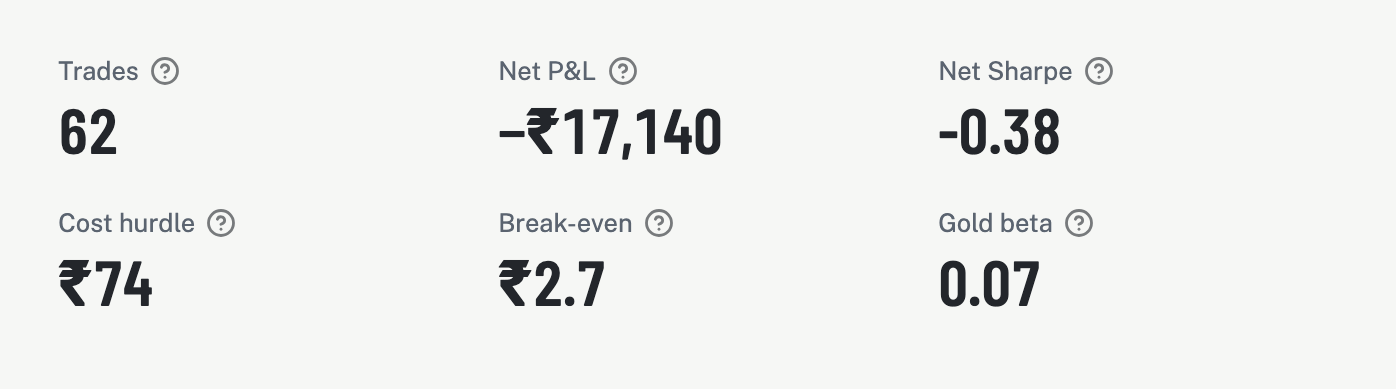
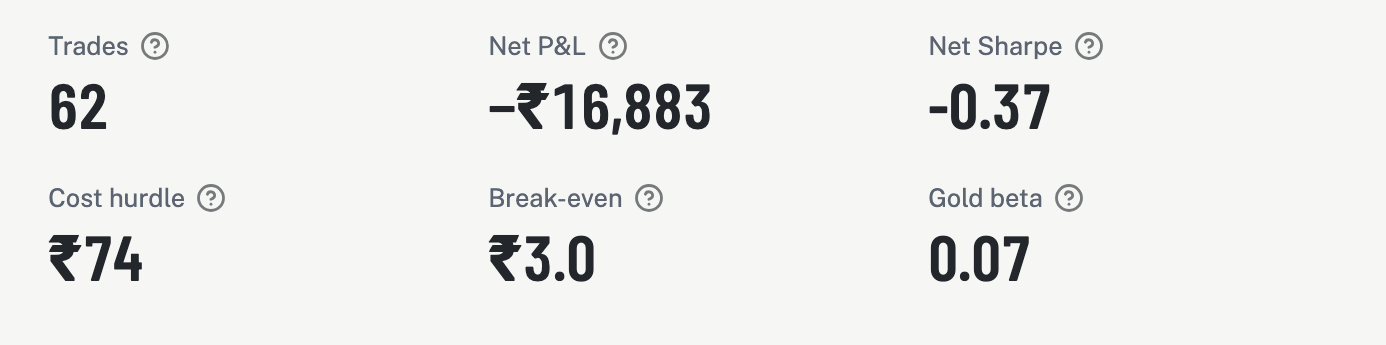
feat: check-a-gap box; fix days_left for contracts still live at the data end
check_gap() converts two quoted prices to ₹/10 g at 999, subtracts the rules' expected
spread and compares the rest with the cost + slippage hurdle (tested).

days_left counted only rows present in the data, so every live contract looked like it was
at expiry on the last data day: quiet alerts could never fire and the backtest forced exits
in the final data days. It now adds the remaining MCX trading days. Verdicts unchanged;
control pair net −₹16,883 (was −₹17,140), break-even ₹3.0 (was ₹2.7); SILVER vs SILVERM
net −₹3,41,647 (was −₹3,55,897). README, QA, demo script and video screens updated.

diff --git a/video/compositions/metrics.html b/video/compositions/metrics.html
@@ -29,9 +29,9 @@
   <div id="root" data-composition-id="metrics" data-width="1920" data-height="1080">
 
     <div id="metrics-cam" class="cam">
-      <div id="metrics-p1" class="plate" style="left:180px; top:150px; width:1560px; height:435px;"><img src="assets/screens/metrics_control.png" alt=""></div>
-      <div id="metrics-m2" class="mark" style="left:203px; top:164px; width:1014px; height:177px;"></div>
-      <div id="metrics-m3" class="mark" style="left:702px; top:338px; width:453px; height:203px;"></div>
+      <div id="metrics-p1" class="plate" style="left:180px; top:150px; width:1560px; height:388px;"><img src="assets/screens/metrics_control.png" alt=""></div>
+      <div id="metrics-m2" class="mark" style="left:203px; top:161px; width:1014px; height:160px;"></div>
+      <div id="metrics-m3" class="mark" style="left:702px; top:317px; width:453px; height:183px;"></div>
       <div id="metrics-tk0" class="tk" style="left:359px;"></div><div id="metrics-tl0" class="tkl" style="left:360px;">₹0</div>
       <div id="metrics-tk1" class="tk" style="left:759px;"></div><div id="metrics-tl1" class="tkl" style="left:760px;">₹1.25</div>
       <div id="metrics-tk2" class="tk" style="left:1159px;"></div><div id="metrics-tl2" class="tkl" style="left:1160px;">₹2.5</div>
@@ -40,7 +40,7 @@
       <div id="metrics-pin" class="pin" style="left:360px;"></div>
       <div id="metrics-cap2" class="cap2">GOLDGUINEA moves in ticks of ₹1 per 8 g = ₹1.25 per 10 g</div>
     </div>
-      <div id="metrics-l4" class="lbl" style="left:1184px; top:560px; font-size:54px;">Break-even <b>₹2.7</b></div>
+      <div id="metrics-l4" class="lbl" style="left:1280px; top:560px; font-size:54px;">Break-even <b>₹3.0</b></div>
   </div>
   <script>
 
@@ -65,7 +65,7 @@
     tl.fromTo("#metrics-m3", { opacity: 0, scale: 1.08 }, { opacity: 1, scale: 1, duration: 0.27, ease: "power3.out" }, 4.173);
     tl.fromTo("#metrics-rul", { scaleX: 0, transformOrigin: "0% 50%" }, { scaleX: 1, duration: 0.5, ease: "power3.out" }, 3.973);
     tl.fromTo([".tk", ".tkl", "#metrics-cap2"], { opacity: 0 }, { opacity: 1, duration: 0.2, stagger: 0.05 }, 4.173);
-    tl.fromTo("#metrics-pin", { opacity: 0, x: 0 }, { opacity: 1, x: 864, duration: 0.9, ease: "power3.out" }, 4.473);
+    tl.fromTo("#metrics-pin", { opacity: 0, x: 0 }, { opacity: 1, x: 960, duration: 0.9, ease: "power3.out" }, 4.473);
     tl.fromTo("#metrics-l4", { clipPath: "inset(0 100% 0 0)" }, { clipPath: "inset(0 0% 0 0)", duration: 0.4, ease: "expo.out" }, 5.173);
     tl.fromTo("#metrics-fill", { scaleX: 0, transformOrigin: "0% 50%" }, { scaleX: 1, duration: 0.5, ease: "power2.out" }, 7.073);
     tl.to("#metrics-cam", { opacity: 0, filter: "blur(8px)", duration: 0.18, ease: "power2.in" }, 8.244);

diff --git a/video/compositions/alerts.html b/video/compositions/alerts.html
@@ -24,8 +24,8 @@
   <div id="root" data-composition-id="alerts" data-width="1920" data-height="1080">
 
     <div id="alerts-cam" class="cam">
-      <div id="alerts-p1" class="plate" style="left:80px; top:150px; width:1760px; height:431px;"><img src="assets/screens/alerts_control.png" alt=""></div>
-      <div id="alerts-m2" class="mark" style="left:81px; top:215px; width:1750px; height:124px;"></div>
+      <div id="alerts-p1" class="plate" style="left:260px; top:130px; width:1400px; height:479px;"><img src="assets/screens/alerts_control.png" alt=""></div>
+      <div id="alerts-m2" class="mark" style="left:259px; top:179px; width:1395px; height:102px;"></div>
       <div id="alerts-zero" class="zero"><span class="n">0</span><span class="t">alerts today. Silence is the normal state.</span></div>
     </div>
 

diff --git a/video/compositions/regimes.html b/video/compositions/regimes.html
@@ -22,8 +22,8 @@
   <div id="root" data-composition-id="regimes" data-width="1920" data-height="1080">
 
     <div id="regimes-cam" class="cam">
-      <div id="regimes-p1" class="plate" style="left:360px; top:110px; width:1200px; height:527px;"><img src="assets/screens/regime_control.png" alt=""></div>
-      <div id="regimes-m2" class="mark" style="left:376px; top:500px; width:1168px; height:142px;"></div>
+      <div id="regimes-p1" class="plate" style="left:360px; top:110px; width:1200px; height:549px;"><img src="assets/screens/regime_control.png" alt=""></div>
+      <div id="regimes-m2" class="mark" style="left:376px; top:497px; width:1168px; height:148px;"></div>
     </div>
 
   </div>

diff --git a/app/streamlit_app.py b/app/streamlit_app.py
@@ -14,14 +14,14 @@ sys.path.insert(0, str(Path(__file__).resolve().parent))
 # (seen as an ImportError on a newly added function). Drop it so every run imports the current code.
 for _m in [m for m in sys.modules if m == "aulens" or m.startswith("aulens.") or m == "theme"]:
     del sys.modules[_m]
-from aulens.backtest import Params, latest_signals, walk_forward  # noqa: E402
+from aulens.backtest import Params, check_gap, latest_signals, walk_forward  # noqa: E402
 from aulens.costs import CostModel  # noqa: E402
 from aulens.data.loader import PROCESSED, load_processed  # noqa: E402
 from aulens.normalize import curve_carry  # noqa: E402
 from aulens.specs import (DEFAULT_SLIPPAGE, MCX_FULL_HOLIDAYS, PAIRS, RBI_REPO_RATE, RBI_REPO_SINCE,  # noqa: E402
                           REGIME_BREAKS, SPECS, UNITS, metal)
 from aulens.verdict import verdict  # noqa: E402
-from theme import (CSS, FAULT, GOLD, INK, PLOTLY_CONFIG, STEEL, VERDICT_COLOUR, VERDIGRIS,  # noqa: E402
+from theme import (CSS, FAULT, GOLD, GOLD_TEXT, INK, PLOTLY_CONFIG, STEEL, VERDICT_COLOUR, VERDIGRIS,  # noqa: E402
                    hallmark, rupees)
 
 st.set_page_config(page_title="AuLens", page_icon="🔎", layout="wide")
@@ -242,6 +242,58 @@ fig.update_layout(height=420, yaxis_title=f"₹ per {UNAME} at 999")
 st.plotly_chart(fig, width="stretch", config=PLOTLY_CONFIG)
 st.caption("The dark line is the price gap between the two contracts. The dashed line is where the exchange "
            "rules say it must end up; a trade is only worth taking once the gap leaves the shaded cost band.")
+
+# ---- Check a gap you see
+st.subheader("Check a gap you see")
+last_day = panel["date"].max()
+live = panel[panel["date"] == last_day].sort_values("expiry")
+qa, qb = grams(SPECS[a].quote_grams), grams(SPECS[b].quote_grams)
+st.caption(f"Type the two prices from your trading screen exactly as quoted: {a} per {qa}, {b} per {qb}. "
+           f"They start at the {last_day:%-d %b %Y} settlement prices.")
+
+
+def contract_label(x):
+    rw = live[live["expiry"] == x].iloc[0]
+    if "expiry_a" in rw:   # carry pair: a's month M+1 against b's month M
+        return f"{a} {rw['expiry_a']:%b %Y} / {b} {x:%b %Y}"
+    return f"{x:%b %Y}"
+
+
+g1, g2, g3 = st.columns([1.2, 1, 1])
+holdable = live["can_hold"].tolist()
+exp_g = g1.selectbox("Contract", live["expiry"].tolist(), format_func=contract_label, key=f"gap_exp_{a}_{b}",
+                     index=holdable.index(True) if True in holdable else 0)   # nearest contract still outside the exit window
+row = live[live["expiry"] == exp_g].iloc[0]
+tag = f"{a}_{b}_{pd.Timestamp(exp_g):%Y%m%d}"
+price_a = g2.number_input(f"{a}, ₹ per {qa}", min_value=1.0, value=float(row["close_a"]), step=1.0, format="%.0f", key=f"gap_a_{tag}")
+price_b = g3.number_input(f"{b}, ₹ per {qb}", min_value=1.0, value=float(row["close_b"]), step=1.0, format="%.0f", key=f"gap_b_{tag}")
+g = check_gap(res, exp_g, price_a, price_b)
+
+edge = v["verdict"] == "EDGE"
+OUTCOME = {
+    "implausible": (FAULT, "These prices are more than 5% apart once converted to the same unit. "
+                           "Check the prices and the contract month."),
+    "no_estimate": (GOLD_TEXT, "AuLens has no expected spread for this contract yet: it needs about 20 days of its own history."),
+    "late": (STEEL, "Too close to delivery. Under AuLens' exit rule a position in this contract must already be closed."),
+    "inside": (STEEL, "Inside the cost band. The rulebook and trading costs explain this gap, so there is nothing to trade."),
+    "clears": (VERDIGRIS, "Clears the rulebook and costs, on a pair with a tested edge. Check volume and the z-score before acting.")
+              if edge else
+              (GOLD_TEXT, f"Clears the rulebook and costs today, but this pair's verdict is {v['verdict']}: "
+                          "in the backtest, gaps like this did not pay after costs."),
+}
+colour, message = OUTCOME[g["status"]]
+fmt = lambda x: "–" if pd.isna(x) else rupees(x * U)   # noqa: E731
+lines = [("Raw difference of the two quotes", rupees(g["quoted_gap"]), "different units, so not comparable"),
+         (f"Same gap in ₹ per {UNAME} at 999", fmt(g["spread"]), "after purity and quote-unit conversion"),
+         ("Where the rules say it should be", fmt(g["expected"]), "same city and expiry: ₹0; otherwise basis or carry"),
+         ("Left over", fmt(g["residual"]), "what could be mispricing"),
+         ("Cost and slippage hurdle", f"± {fmt(g['hurdle'])}", f"round-trip costs plus ₹{slip} slippage per leg")]
+st.markdown("<div class='gap'><dl class='gap-ledger'>" + "".join(
+    f"<div{' class=\'key\'' if k == 3 else ''}><dt>{escape(t)}<span>{escape(why)}</span></dt><dd>{val}</dd></div>"
+    for k, (t, val, why) in enumerate(lines)) + "</dl>"
+    f"<p class='gap-out' role='status' style='--mark:{colour}'>{escape(message)}</p></div>", unsafe_allow_html=True)
+st.caption(f"Expected spread and the delivery-window check use data to {last_day:%-d %b %Y}. "
+           "A single quote has no z-score or volume, so those entry rules are not checked here.")
 
 # ---- Sensitivity + regimes
 l, r = st.columns(2, gap="large")

diff --git a/aulens/backtest.py b/aulens/backtest.py
@@ -17,7 +17,8 @@ import numpy as np
 import pandas as pd
 
 from aulens.costs import CostModel
-from aulens.normalize import gram_matched_lots, pair_panel
+from aulens.specs import MCX_FULL_HOLIDAYS
+from aulens.normalize import gram_matched_lots, pair_panel, to_rs_per_10g_999
 from aulens.specs import REGIME_BREAKS, SPECS
 
 
@@ -57,7 +58,13 @@ def add_signals(p: pd.DataFrame, a: str, b: str, prm: Params) -> pd.DataFrame:
     sd = g.transform(lambda s: s.shift(1).rolling(prm.lookback, min_periods=prm.lookback // 2).std())
     p["z"] = (p["residual"] - mu) / sd
     tender = max(SPECS[a].tender_days, SPECS[b].tender_days) + prm.exit_buffer_days
-    p["days_left"] = p.groupby("expiry")["date"].transform(lambda d: len(d) - 1 - np.arange(len(d)))
+    # trading days still to come before expiry: rows left in the data, plus (for contracts still live
+    # on the last data day) the weekdays after it that are not MCX full-day holidays
+    last = p["date"].max()
+    future = {e: len(pd.bdate_range(last + pd.Timedelta(days=1), e, freq="C", holidays=MCX_FULL_HOLIDAYS)) if e > last else 0
+              for e in p["expiry"].unique()}
+    p["days_left"] = (p.groupby("expiry")["date"].transform(lambda d: len(d) - 1 - np.arange(len(d)))
+                      + p["expiry"].map(future))
     p["can_hold"] = p["days_left"] > tender
     lots_a, lots_b, _ = gram_matched_lots(a, b, prm.lot_scale)
     p["liquid"] = ((p["volume_a"] >= prm.min_volume) & (p["volume_b"] >= prm.min_volume)
@@ -147,3 +154,32 @@ def latest_signals(res: dict) -> pd.DataFrame:
     last["clears"] = (last["can_hold"] & last["liquid"] & (last["z"].abs() > z_entry)
                       & (last["residual"].abs() > last["hurdle"]))
     return last[["date", "expiry", "residual", "hurdle", "z", "clears"]].reset_index(drop=True)
+
+
+PLAUSIBLE_GAP = 0.05   # normalized prices further apart than this are almost surely a typo or the wrong contract
+
+
+def check_gap(res: dict, expiry: pd.Timestamp, price_a: float, price_b: float) -> dict:
+    """Judge two prices a trader sees for one contract of the pair with the backtest's own rules:
+    convert both to ₹ per 10 g at 999, subtract the rules' expected spread (as of the last data day)
+    and compare what is left with the cost + slippage hurdle. z-score and volume need history, so
+    they are not part of a single-quote check."""
+    a, b = res["pair"]
+    prm = res["params"]
+    row = res["panel"][res["panel"]["expiry"] == expiry].iloc[-1]
+    px_a, px_b = to_rs_per_10g_999(price_a, a), to_rs_per_10g_999(price_b, b)
+    spread = px_a - px_b
+    residual = spread - row["expected"]
+    hurdle = prm.costs.breakeven_per_10g(px_a, res["grams"]) + 4 * prm.slippage_per_leg
+    if abs(spread) > PLAUSIBLE_GAP * px_a:
+        status = "implausible"
+    elif pd.isna(row["expected"]):
+        status = "no_estimate"
+    elif not row["can_hold"]:
+        status = "late"
+    elif abs(residual) <= hurdle:
+        status = "inside"
+    else:
+        status = "clears"
+    return {"as_of": row["date"], "quoted_gap": price_a - price_b, "spread": spread, "expected": row["expected"],
+            "residual": residual, "hurdle": hurdle, "status": status}

diff --git a/video/scripts/build_film.py b/video/scripts/build_film.py
@@ -367,8 +367,8 @@ s.add(f'<div id="metrics-pin" class="pin" style="left:{X0}px;"></div>')
 s.add('<div id="metrics-cap2" class="cap2">GOLDGUINEA moves in ticks of ₹1 per 8 g = ₹1.25 per 10 g</div>')
 s.tw(f'tl.fromTo("#metrics-rul", {{ scaleX: 0, transformOrigin: "0% 50%" }}, {{ scaleX: 1, duration: 0.5, ease: "power3.out" }}, {round(t_breaks - 0.2, 3)});')
 s.tw(f'tl.fromTo([".tk", ".tkl", "#metrics-cap2"], {{ opacity: 0 }}, {{ opacity: 1, duration: 0.2, stagger: 0.05 }}, {round(t_breaks, 3)});')
-s.tw(f'tl.fromTo("#metrics-pin", {{ opacity: 0, x: 0 }}, {{ opacity: 1, x: {px(2.7) - X0}, duration: 0.9, ease: "power3.out" }}, {round(t_breaks + 0.3, 3)});')
-s.label('Break-even <b>₹2.7</b>', px(2.7) - 40, RY - 140, 54, round(t_breaks + 1.0, 3))
+s.tw(f'tl.fromTo("#metrics-pin", {{ opacity: 0, x: 0 }}, {{ opacity: 1, x: {px(3.0) - X0}, duration: 0.9, ease: "power3.out" }}, {round(t_breaks + 0.3, 3)});')
+s.label('Break-even <b>₹3.0</b>', px(3.0) - 40, RY - 140, 54, round(t_breaks + 1.0, 3))
 s.tw(f'tl.fromTo("#metrics-fill", {{ scaleX: 0, transformOrigin: "0% 50%" }}, {{ scaleX: 1, duration: 0.5, ease: "power2.out" }}, {round(t_ticks - 0.3, 3)});')
 s.sfx(t_breaks + 0.3, "key-press", 0.3)
 s.exit("blur")
@@ -378,7 +378,7 @@ s.write()
 s = Scene("regimes")
 s.enter("blur")
 rg = s.plate("assets/screens/regime_control.png", 360, 110, 1200, reveal="down", dur=0.8)
-s.mark(rg, (0.02, 0.755, 0.98, 0.995), s.L(cue("s07", "April")))
+s.mark(rg, (0.02, 0.72, 0.98, 0.96), s.L(cue("s07", "April")))
 s.exit("whip-up")
 s.write()
 
@@ -409,9 +409,9 @@ s.write()
 # ================= alerts: the quiet state =================
 s = Scene("alerts")
 s.enter("blur")
-a = s.plate("assets/screens/alerts_control.png", 80, 150, 1760)
+a = s.plate("assets/screens/alerts_control.png", 260, 130, 1400)   # six pairs since the silver update
 t_q = s.L(cue("s10", "quiet"))
-s.mark(a, (0.005, 0.17, 0.99, 0.42), t_q)
+s.mark(a, (0.005, 0.12, 0.99, 0.30), t_q)
 s.css = f".zero {{ position: absolute; left: 80px; top: 640px; display: flex; align-items: baseline; gap: 26px; opacity: 0; }}\n.zero .n {{ font-family: 'Barlow Condensed'; font-weight: 700; font-size: 170px; line-height: 1; }}\n.zero .t {{ font-family: 'Barlow Condensed'; font-weight: 600; font-size: 60px; color: {STEEL}; }}"
 s.add('<div id="alerts-zero" class="zero"><span class="n">0</span><span class="t">alerts today. Silence is the normal state.</span></div>')
 s.tw(f'tl.fromTo("#alerts-zero", {{ opacity: 0, filter: "blur(8px)" }}, {{ opacity: 1, filter: "blur(0px)", duration: 0.2 }}, {round(t_q + 0.35, 3)});')

diff --git a/app/theme.py b/app/theme.py
@@ -74,6 +74,18 @@ CSS = f"""
   .pill {{ display: inline-block; padding: .05rem .5rem; border: 1.5px solid var(--mark); border-radius: 4px; color: var(--mark);
     font-family: "Barlow Condensed", sans-serif; font-weight: 700; font-size: 1rem; letter-spacing: .04em; }}
 
+  /* check a gap: a short ledger, then the answer */
+  .gap {{ max-width: 46rem; margin: .5rem 0 .25rem; }}
+  .gap-ledger {{ margin: 0; font-variant-numeric: tabular-nums; }}
+  .gap-ledger > div {{ display: flex; justify-content: space-between; align-items: baseline; gap: 1rem;
+    padding: .5rem 0; border-bottom: 1px solid {RULE}; }}
+  .gap-ledger dt {{ font-weight: 500; }}
+  .gap-ledger dt span {{ display: block; font-weight: 400; font-size: .78rem; color: {STEEL}; }}
+  .gap-ledger dd {{ margin: 0; white-space: nowrap; font-family: "Barlow Condensed", sans-serif; font-weight: 600; font-size: 1.35rem; }}
+  .gap-ledger .key dt, .gap-ledger .key dd {{ color: {INK}; font-weight: 700; }}
+  .gap-out {{ margin: 1rem 0 0; padding: .7rem 1rem; border-left: 4px solid var(--mark);
+    background: color-mix(in srgb, var(--mark) 6%, white); color: {INK}; }}
+
   /* pair picker: 44 px tap targets */
   .st-key-pair button {{ min-height: 44px; padding-left: .9rem; padding-right: .9rem; }}
 

diff --git a/tests/test_backtest.py b/tests/test_backtest.py
@@ -52,3 +52,15 @@ def test_net_sharpe_and_latest_signals():
     res = walk_forward(_df(), "GOLDTEN", "GOLDGUINEA", Params(min_train_months=2))
     sig = latest_signals(res)
     assert (sig["date"] == res["panel"]["date"].max()).all() and sig["clears"].dtype == bool
+
+
+def test_check_gap_normalizes_then_compares_to_the_hurdle():
+    from aulens.backtest import check_gap
+    res = walk_forward(_df(), "GOLDTEN", "GOLDGUINEA", Params(min_train_months=2))
+    p = res["panel"]
+    exp = p[(p["date"] == p["date"].max()) & p["can_hold"]]["expiry"].max()
+    same = check_gap(res, exp, 140000.0, 112000.0)      # GOLDGUINEA quotes per 8 g: same gold, ₹0 spread
+    assert same["quoted_gap"] == 28000 and same["spread"] == pytest.approx(0) and same["status"] == "inside"
+    wide = check_gap(res, exp, 140000.0, 111700.0)      # 111700 per 8 g = 139625 per 10 g: ₹375 apart
+    assert wide["spread"] == pytest.approx(375) and wide["status"] == "clears" and wide["residual"] > wide["hurdle"]
+    assert check_gap(res, exp, 140000.0, 100000.0)["status"] == "implausible"   # 125000 per 10 g: a typo

diff --git a/README.md b/README.md
@@ -74,12 +74,12 @@ volume, walk-forward `z_entry`.
 
 | Pair | Verdict | Trades | Net P&L | Net Sharpe | 90% CI, mean trade | Break-even slippage per leg | Metal beta |
 |---|---|---|---|---|---|---|---|
-| GOLDTEN vs GOLDGUINEA (control) | **NO EDGE** | 62 | −₹17,140 | −0.38 | −₹1,309 to ₹838 | ₹2.7 /10 g | 0.07 |
+| GOLDTEN vs GOLDGUINEA (control) | **NO EDGE** | 62 | −₹16,883 | −0.37 | −₹1,305 to ₹845 | ₹3.0 /10 g | 0.07 |
 | GOLD vs GOLDM (control) | **NO EDGE** | 12 | −₹5,93,492 | −1.28 | −₹1,14,656 to −₹1,412 | −₹103.6 /10 g | 0.03 |
 | GOLDTEN vs GOLDPETAL | **NO EDGE** | 49 | ₹35,653 | 0.83 | −₹527 to ₹2,044 | ₹65.5 /10 g | 0.14 |
 | GOLDM vs GOLDTEN (stretch) | **NO EDGE** | 32 | −₹1,69,597 | −1.24 | −₹12,236 to ₹404 | −₹112.5 /10 g | 0.25 |
 | SILVERM vs SILVERMIC (silver control) | **NO EDGE** | 15 | −₹2,783 | −0.20 | −₹1,492 to ₹1,489 | ₹10.7 /kg | −0.01 |
-| SILVER vs SILVERM (silver carry) | **NO EDGE** | 20 | −₹3,55,897 | −1.85 | −₹33,657 to −₹6,579 | −₹128.3 /kg | 0.06 |
+| SILVER vs SILVERM (silver carry) | **NO EDGE** | 20 | −₹3,41,647 | −1.75 | −₹33,491 to −₹5,818 | −₹122.4 /kg | 0.04 |
 
 - **Control pairs:** both gold controls settle on the same price at expiry (GOLDTEN/GUINEA within
   ±₹1 on all 18 expiries, GOLD/GOLDM exactly ₹0 on 9), and SILVERM/SILVERMIC settles at exactly
@@ -90,7 +90,7 @@ volume, walk-forward `z_entry`.
   2026, so it fails the every-regime test.
 - **GOLDM vs GOLDTEN and SILVER vs SILVERM:** the carry pairs take their worst losses on
   30 Jan 2026, when the near and far expiries moved by very different amounts. Three GOLDM vs
-  GOLDTEN trades closed that day for 74% of that pair's loss, and one SILVER vs SILVERM trade for 47% of its loss. See [docs/LIMITATIONS.md](docs/LIMITATIONS.md).
+  GOLDTEN trades closed that day for 74% of that pair's loss, and one SILVER vs SILVERM trade for 49% of its loss. See [docs/LIMITATIONS.md](docs/LIMITATIONS.md).
 
 Exact output of `python scripts/run_backtest.py`:
 
@@ -99,15 +99,15 @@ Data source: MCX
 
 == GOLDTEN vs GOLDGUINEA  [NO EDGE]  4 x GOLDTEN  vs  5 x GOLDGUINEA  (40 g)
    Does not survive costs, slippage and regime splits with confidence.
-   trades 62  gross ₹20,618  costs ₹17,918  slippage ₹19,840  net ₹-17,140  hit 42%
-   break-even slippage ₹2.7/10 g/leg   gold beta 0.070
-   net Sharpe -0.38   90% CI of mean trade ₹-1,309 to ₹838
+   trades 62  gross ₹20,875  costs ₹17,918  slippage ₹19,840  net ₹-16,883  hit 42%
+   break-even slippage ₹3.0/10 g/leg   gold beta 0.067
+   net Sharpe -0.37   90% CI of mean trade ₹-1,305 to ₹845
                   count           sum
 regime                               
 From 01 Apr 2025      4   -343.373494
 From 22 Sep 2025     30 -10825.918032
 From 01 Apr 2026      2  -1932.232955
-From 13 May 2026     26  -4038.245302 
+From 13 May 2026     26  -3781.245302 
 
 == GOLD vs GOLDM  [NO EDGE]  1 x GOLD  vs  10 x GOLDM  (1 kg)
    Does not survive costs, slippage and regime splits with confidence.
@@ -158,15 +158,15 @@ From 13 May 2026      3  -894.206732
 
 == SILVER vs SILVERM  [NO EDGE]  1 x SILVER  vs  6 x SILVERM  (30 kg)
    Does not survive costs, slippage and regime splits with confidence.
-   trades 20  gross ₹-266,520  costs ₹41,377  slippage ₹48,000  net ₹-355,897  hit 20%
-   break-even slippage ₹-128.3/kg/leg   silver beta 0.056
-   net Sharpe -1.85   90% CI of mean trade ₹-33,657 to ₹-6,579
+   trades 20  gross ₹-252,270  costs ₹41,377  slippage ₹48,000  net ₹-341,647  hit 25%
+   break-even slippage ₹-122.4/kg/leg   silver beta 0.042
+   net Sharpe -1.75   90% CI of mean trade ₹-33,491 to ₹-5,818
                   count            sum
 regime                                
 From 01 Apr 2025      4   -2186.217673
 From 22 Sep 2025     10 -277826.172908
 From 01 Apr 2026      1  -22121.304229
-From 13 May 2026      5  -53763.314862
+From 13 May 2026      5  -39513.314862
 ```
 
 ## Status
@@ -186,6 +186,8 @@ From 13 May 2026      5  -53763.314862
 - [x] Contract specs verified against the current MCX PDFs (GOLD/GOLDM tender window corrected to 3 days)
 - [x] GOLD vs GOLDM second control, robustness grid, downloadable report
 - [x] Silver family: SILVERM vs SILVERMIC control, SILVER vs SILVERM carry pair (₹/kg display)
+- [x] Six-pair scoreboard on the first screen; phone-friendly pair picker and assumptions panel
+- [x] Check a gap: type two quoted prices, see the rulebook-adjusted gap against the cost hurdle
 - [ ] GOLDM 3-day-average DDR modelled in the GOLDM vs GOLDTEN expected spread
 - [ ] COMEX carry comparison, measured slippage from live bid/ask
 

diff --git a/docs/QA.md b/docs/QA.md
@@ -14,8 +14,8 @@ There isn't one after costs, and AuLens can show exactly why.
   ₹1 at the DDR, but in six of them the gap over the last five trading days was *wider* than in
   the first half of the contract's life. A trader has to be out before the delivery window, so
   the snap-back can't be collected.
-- **Costs eat what's left.** Control pair: average gross ₹333 per trade against ₹609 of costs and
-  slippage per trade. 62 trades, net −₹17,140, net Sharpe −0.38; it breaks even at only ₹2.7 of
+- **Costs eat what's left.** Control pair: average gross ₹337 per trade against ₹609 of costs and
+  slippage per trade. 62 trades, net −₹16,883, net Sharpe −0.37; it breaks even at only ₹3.0 of
   slippage per 10 g per leg.
 - **The one positive pair fails the robustness test.** GOLDTEN vs GOLDPETAL nets ₹35,653, but almost
   all of it comes from one regime (22 Sep 2025 – 1 Apr 2026), 57% from a single trade closed on
@@ -23,7 +23,7 @@ There isn't one after costs, and AuLens can show exactly why.
   average trade is −₹527 to ₹2,044: it straddles zero.
 - **Same story in silver.** SILVERM vs SILVERMIC settle at exactly ₹0 on all 8 expiries, yet
   15 trades net −₹2,783 and break even at ₹10.7 per kg per leg. SILVER vs SILVERM loses
-  ₹3.56 lakh, and its whole 90% interval sits below zero. All six pairs: NO EDGE.
+  ₹3.42 lakh, and its whole 90% interval sits below zero. All six pairs: NO EDGE.
 
 One line: *"The spread is real; the trade isn't. That's the answer a trader needs before risking money."*
 
@@ -33,7 +33,7 @@ One line: *"The spread is real; the trade isn't. That's the answer a trader need
   Final-day prices come from MCX's published Due Date Rates, not from thin last trades.
 - Live bid/ask needs a broker API and weeks of capture to measure real slippage. Instead we show
   **break-even slippage**, the slippage at which the strategy stops making money, so anyone can
-  compare it to the spreads they see on their own screen. For the control pair it is ₹2.7 per 10 g
+  compare it to the spreads they see on their own screen. For the control pair it is ₹3.0 per 10 g
   per leg, about two GOLDGUINEA ticks: almost any real fill erases it.
 - Live data is the natural next step, not a missing piece. It would refine the slippage number; it
   cannot rescue a strategy that loses before slippage.
@@ -70,7 +70,7 @@ charges and broker cut-offs. AuLens models what a trader without a vault can do:
 
 **"Is 62 trades enough?"**
 Enough to say NO EDGE with confidence for the control pair: its 90% interval for the average trade
-is −₹1,309 to ₹838. It is not enough to claim an edge, which is why the bar for EDGE is high.
+is −₹1,305 to ₹845. It is not enough to claim an edge, which is why the bar for EDGE is high.
 
 **"What is gold beta?"**
 The slope of trade P&L against the gold price move over the same holding period. Near zero (0.07

diff --git a/docs/DEMO_SCRIPT.md b/docs/DEMO_SCRIPT.md
@@ -7,7 +7,7 @@ Record on **real MCX data**. Screen-record the dashboard at 1080p; one voice, ca
 | 0:00–0:15 | Title slide / team | "We're CodeWick. MCX lists gold in five sizes. Their prices never match — and traders keep asking whether that's free money. AuLens answers that honestly." |
 | 0:15–0:35 | Assumptions and contract rules panel | "Most of the gap is in the rulebook: purity 995 vs 999, quote units, Ahmedabad vs Mumbai settlement, different expiries. We normalize everything to rupees per 10 grams at 999 using MCX's own formulas." |
 | 0:35–1:00 | Spread chart, control pair (Sep 2026 expiry, the default) | "This is our control pair, GOLDTEN vs GOLDGUINEA. Same city, purity and expiry, so the spread must reach zero at final settlement — and on all 18 expiries it lands within one rupee. But look at the last week: the gap often widens before it snaps shut, and that snap happens after a trader must exit for the delivery window." |
-| 1:00–1:25 | Verdict card + metrics | "We backtest walk-forward: signals use only past data, trades fill the next day, every position exits before the tender window. After every cost, the verdict for this pair is NO EDGE — 62 trades, net minus ₹17,100." |
+| 1:00–1:25 | Verdict card + metrics | "We backtest walk-forward: signals use only past data, trades fill the next day, every position exits before the tender window. After every cost, the verdict for this pair is NO EDGE — 62 trades, net minus ₹16,900." |
 | 1:25–1:45 | Slippage chart + regime table | "Bhavcopy can't see the order book, so we show how the result changes with slippage — this pair breaks even at under three rupees of slippage per 10 grams, about two ticks. And we split results around the April 2026 SEBI change and the May 2026 duty hike: none of our six pairs is profitable in every regime." |
 | 1:45–2:00 | GitHub repo | "Everything is open source: repo link below. AuLens — five contracts, one metal, one honest verdict." |
 
